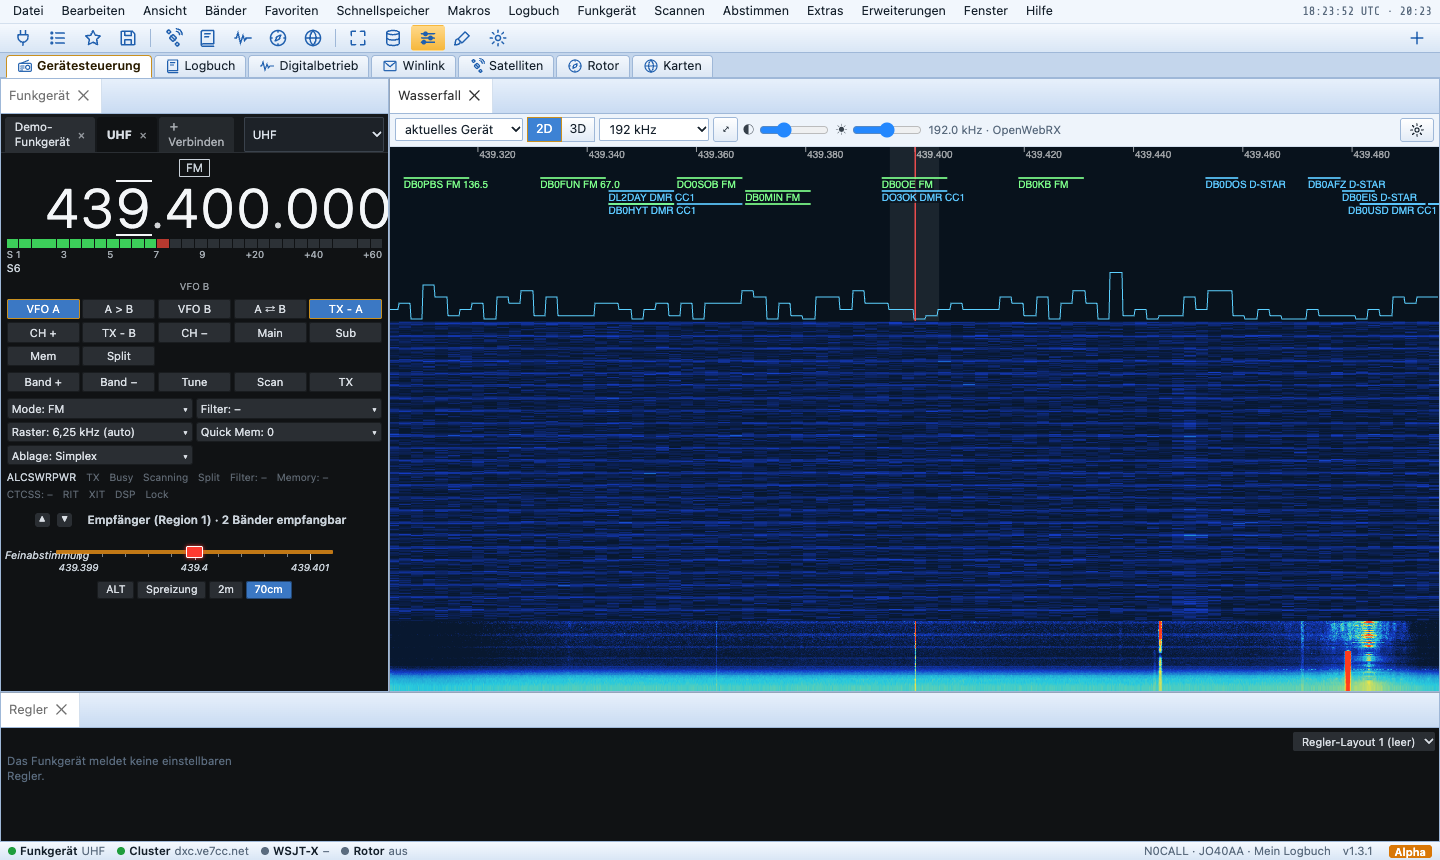
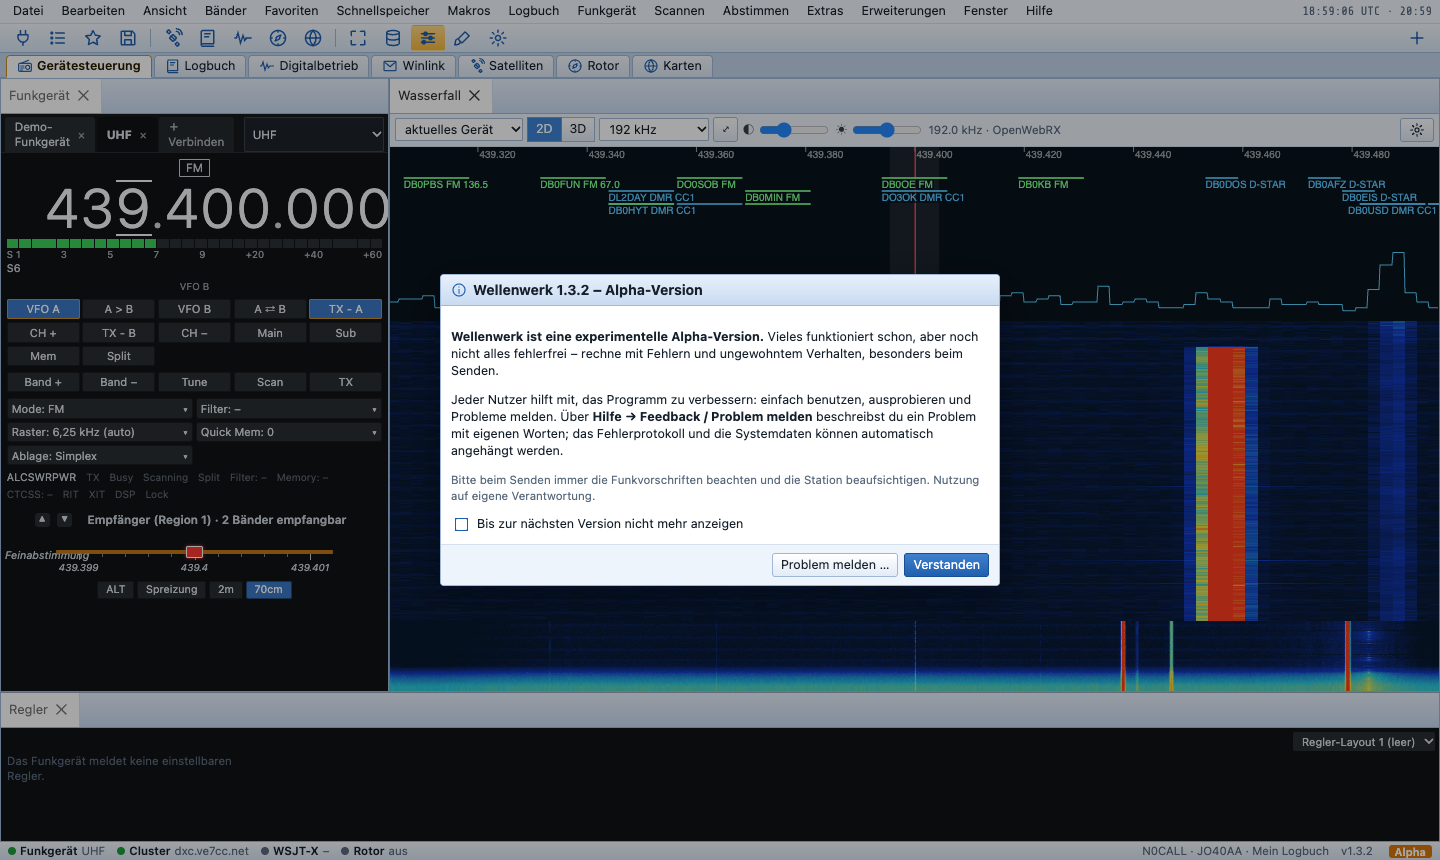
Relais: EchoLink als weitere Quelle, uebliche Ablage ergaenzen
- freqdb.echolink: Umkreissuche auf echolink.org/links.jsp (Relais/Links mit Frequenz, CTCSS,
  Standort, Status), je Gebiet eine Anfrage pro Tag; genauere Frequenz aus der Beschreibung
- Ablage nach Bandplan, wenn nur die Ausgabe bekannt ist (2 m -600 kHz, 70 cm -7,6 MHz ab 438,0)
- Karte zeigt EchoLink-Status; Anleitung DE/EN, LIZENZEN.md

Claude-Session: https://claude.ai/code/session_017n9uLddWcii3wRCcwvWadf

diff --git a/static/js/shell.js b/static/js/shell.js
@@ -324,7 +324,7 @@ function openOptions(tab = "station") {
       <label>Erkennung: höchstens (Sekunden)<input type="number" min="6" max="30" name="wf_sigsecs" data-local data-wf value="${w.sigsecs}"></label><span></span>
       <label class="chkrow wide"><input type="checkbox" name="wf_mtyp" data-local data-wf ${w.mtyp !== false ? "checked" : ""}> Typische Frequenzen markieren (FT8, WSPR, PSK, SSTV, Anruffrequenzen, Baken, Wetter- und Zeitsender, CB, PMR446 …)</label>
       <label class="chkrow wide"><input type="checkbox" name="wf_mbc" data-local data-wf ${w.mbc !== false ? "checked" : ""}> Rundfunksender markieren, die gerade senden (Sendeplan EiBi, eibispace.de)</label>
-      <label class="chkrow wide"><input type="checkbox" name="wf_mrep" data-local data-wf ${w.mrep !== false ? "checked" : ""}> Relais in der Nähe markieren (DARC-Relaisliste DL3EL, BrandMeister, hearham.com) – Klick stellt Betriebsart, Dekoder bzw. Ablage und CTCSS ein</label>
+      <label class="chkrow wide"><input type="checkbox" name="wf_mrep" data-local data-wf ${w.mrep !== false ? "checked" : ""}> Relais in der Nähe markieren (DARC-Relaisliste DL3EL, EchoLink, BrandMeister, hearham.com) – Klick stellt Betriebsart, Dekoder bzw. Ablage und CTCSS ein</label>
       <label>Relais im Umkreis von (km)<input type="number" min="10" max="300" name="wf_mrad" data-local data-wf value="${w.mrad || 100}"></label><span class="hint">Mittelpunkt: Standort des Empfängers (OpenWebRX meldet ihn), sonst der eigene Locator.</span>
       <p class="hint wide">Wasserfall-Fenster: Mausrad = zoomen, Ziehen = verschieben, Klick = abstimmen. In USB/LSB legt ein Klick das Signal auf 1500 Hz im Ton und erkennt die Betriebsart; Alt+Klick stimmt nur ab. 3D: Ziehen dreht, Mausrad ändert den Abstand. Breite, Kontrast (◐) und Helligkeit (☀) stehen in der Leiste des Fensters; Doppelklick auf einen Regler setzt ihn zurück.
         Panadapter: Ist ein Funkgerät ohne eigenes Scope und zusätzlich ein SDR (z. B. RTL-SDR) verbunden, zeigt der Wasserfall das Spektrum des SDR, das SDR folgt der Frequenz des Funkgeräts und ein Klick stimmt das Funkgerät ab.</p>`; })()}</div></div>

diff --git a/static/js/freqmarks.js b/static/js/freqmarks.js
@@ -106,5 +106,6 @@ function fmkRepFacts(r) {
   const off = r.rx - r.f;
   return [`${fmtMHz(r.f)} MHz`, off ? `Ablage ${off > 0 ? "+" : "−"}${(Math.abs(off) / 1e6).toLocaleString(I18N.locale, { maximumFractionDigits: 4 })} MHz` : "Simplex",
     r.m === "DMR" && r.cc != null ? `Colorcode ${r.cc}` : "", r.tone && !FMK_DV[r.m] ? `CTCSS ${String(r.tone).replace(".", ",")} Hz` : "", r.city || "", `${String(r.km).replace(".", ",")} km`,
-    r.seen ? `zuletzt aktiv ${r.seen}` : "", `Quelle: ${{ brandmeister: "BrandMeister", dl3el: "DARC-Relaisliste (DL3EL)" }[r.s] || "hearham.com"}`].filter(Boolean);
+    r.seen ? `zuletzt aktiv ${r.seen}` : "", r.online === true ? "EchoLink online" : r.online === false ? "EchoLink offline" : "",
+    `Quelle: ${{ brandmeister: "BrandMeister", dl3el: "DARC-Relaisliste (DL3EL)", echolink: "EchoLink" }[r.s] || "hearham.com"}`].filter(Boolean);
 }

diff --git a/wellenwerk/freqdb.py b/wellenwerk/freqdb.py
@@ -1,7 +1,8 @@
 """Frequenz-Datenbanken fuer Wasserfall und Signalerkennung, im Datenordner zwischengespeichert:
 
 - Relais: hearham.com (weltweit, alle Betriebsarten, offene Daten), BrandMeister (DMR-Relais mit Colorcode
-  und letztem Kontakt) und die DARC-Relaisliste von DL3EL (relais.dl3el.de, Umkreissuche, FM-Relais mit CTCSS). Optional repeatermap.de (DK3ML) mit eigenem API-Token (beim Betreiber anfragen).
+  und letztem Kontakt) die DARC-Relaisliste von DL3EL (relais.dl3el.de, Umkreissuche, FM-Relais mit CTCSS) und EchoLink
+  (Relais und Links mit Frequenz, CTCSS und aktuellem Status, weltweit). Optional repeatermap.de (DK3ML) mit eigenem API-Token (beim Betreiber anfragen).
 - Rundfunk: EiBi-Sendeplan (eibispace.de, Saison A/B), gefiltert auf die aktuelle Sendezeit.
 - Typische Frequenzen der Betriebsarten: static/freqs.json im Programm, taeglich aus dem Projekt auf GitHub aktualisiert.
 Alle Abrufe mit eigener Kennung, hoechstens einmal pro Woche (Relais, Rundfunk) bzw. Tag (typische Frequenzen)."""
@@ -26,6 +27,7 @@ SRC = {
     "brandmeister": "https://api.brandmeister.network/v2/device",
     "freqs": "https://raw.githubusercontent.com/djamplifier/wellenwerk/main/static/freqs.json",
     "eibi": "http://www.eibispace.de/dx/sked-{season}.csv",
+    "echolink": "https://www.echolink.org/links.jsp?sel=gridsq&gs={grid}&d=150",
     "dl3el": "http://relais.dl3el.de/cgi-bin/relais.pl?sel=gridsq&gs={grid}&maxgateways=200&printas=csv&type_el=1&type_il=1&type_ds=1&type_ws=1&type_dm=1&type_fr=1&type_dl3el=1&kmmls=km",
 }
 _lock = threading.Lock()
@@ -157,6 +159,63 @@ def dl3el(data: Path, lat: float, lon: float) -> list[dict]:
     return out
 
 
+# EchoLink: Relais (-R) und Links (-L) mit Frequenz, CTCSS, Standort und aktuellem Status; weltweit. Je Gebiet eine Anfrage pro Tag.
+def _std_offset(f: int) -> int:
+    """Uebliche Relaisablage, wenn die Quelle nur die Ausgabefrequenz nennt (Region 1; 2 m US: −600 kHz bzw. +600 kHz)."""
+    if 145_550_000 <= f <= 145_800_000 or 146_000_000 <= f <= 148_000_000:
+        return -600_000
+    if 438_000_000 <= f <= 439_600_000:                 # Region 1 (Deutschland: Ausgaben 438,0125 … 439,5875)
+        return -7_600_000
+    if 29_620_000 <= f <= 29_690_000:
+        return -100_000
+    if 1_298_000_000 <= f <= 1_299_000_000:
+        return -28_000_000
+    return 0
+
+
+def echolink(data: Path, lat: float, lon: float) -> list[dict]:
+    import re
+    from .geo import latlon_to_grid
+    cell = (round(lat * 4) / 4, round(lon * 4) / 4)
+    path = data / "relais-echolink" / f"{cell[0]:.2f}_{cell[1]:.2f}.json"
+    if path.exists() and time.time() - path.stat().st_mtime < DAY:
+        return json.loads(path.read_text(encoding="utf-8"))
+    out = []
+    try:
+        html = _fetch(SRC["echolink"].format(grid=latlon_to_grid(*cell)), 60).decode("utf-8", "replace")
+        txt = lambda c: _unent(re.sub(r"\s+", " ", re.sub(r"<[^>]+>", " ", c))).strip()
+        for row in re.findall(r'(?s)<tr class="(?:online|offline|busy)">(.*?)(?=<tr|</table)', html):
+            cells = re.findall(r"(?s)<td[^>]*>(.*?)(?=<td|$)", row)
+            g = re.search(r"clat=([-\d.]+)&clon=([-\d.]+)", row)
+            if len(cells) < 13 or not g:
+                continue
+            try:
+                call, desc, fq, tone, st = txt(cells[0]).upper(), txt(cells[1]), txt(cells[7]), txt(cells[8]), txt(cells[12])
+                f = int(round(float(fq) * 1e6))
+                if not f:
+                    continue
+                exact = re.search(r"(\d{2,4}[.,]\d{3,5})", desc)                   # genauere Angabe in der Beschreibung (438.5875)
+                if exact and abs(float(exact.group(1).replace(",", ".")) * 1e6 - f) < 1500:
+                    f = int(round(float(exact.group(1).replace(",", ".")) * 1e6))
+                elif abs(f - round(f / 6250) * 6250) <= 700:
+                    f = int(round(f / 6250) * 6250)
+                e = dict(c=call, f=f, rx=f + (_std_offset(f) if call.endswith("-R") else 0), m="FM", lat=round(float(g.group(1)), 4), lon=round(float(g.group(2)), 4),
+                         city=desc[:60], s="echolink", online=st.lower().startswith(("on", "busy")))
+                if tone and tone.replace(".", "").isdigit():
+                    e["tone"] = tone
+                out.append(e)
+            except (ValueError, IndexError):
+                continue
+    except Exception as e:
+        log.warning("EchoLink-Liste nicht abrufbar: %s", e)
+    if out:
+        path.parent.mkdir(exist_ok=True)
+        path.write_text(json.dumps(out, ensure_ascii=False), encoding="utf-8")
+    elif path.exists():
+        return json.loads(path.read_text(encoding="utf-8"))
+    return out
+
+
 def repeaters_ready(data: Path) -> bool:
     """Relaisliste geladen? Sonst Laden im Hintergrund anstossen (erster Abruf dauert bis zu einer Minute)."""
     if "rep" in _cache:
@@ -180,7 +239,7 @@ def repeaters(data: Path, lat: float, lon: float, radius_km: float = 80, lo: flo
     if not repeaters_ready(data):
         return []
     cand = []
-    extra = dl3el(data, lat, lon) if -60 < lat < 75 else []
+    extra = (dl3el(data, lat, lon) + echolink(data, lat, lon)) if -60 < lat < 75 else []
     for r in extra + _cache["rep"]:
         if hi and not (lo <= r["f"] <= hi):
             continue
@@ -193,7 +252,7 @@ def repeaters(data: Path, lat: float, lon: float, radius_km: float = 80, lo: flo
                 x["cc"], x["tone"] = int(x["tone"][2:] or 0), ""
             cand.append(x)
     # Vorrang bei Doppelten: DMR aus BrandMeister (Colorcode, letzter Kontakt), sonst die DARC-Liste (CTCSS), dann hearham
-    rank = lambda r: (0 if r["s"] == "brandmeister" and r["m"] == "DMR" else 1 if r["s"] == "dl3el" else 2)
+    rank = lambda r: (0 if r["s"] == "brandmeister" and r["m"] == "DMR" else 1 if r["s"] == "dl3el" else 2 if r["s"] == "echolink" else 3)
     cand.sort(key=lambda r: (rank(r), not r.get("tone"), "-" in r["c"], r["km"]))
     seen, res = set(), []
     for r in cand:

diff --git a/docs/Anleitung.md b/docs/Anleitung.md
@@ -202,7 +202,7 @@ Von Hand lässt sich jeder Schritt von 10 Hz bis 100 kHz festlegen. Ein **Klick 
 Unter der Frequenzskala zeigt der Wasserfall, was wo zu erwarten ist – ein Klick auf eine Markierung stellt Frequenz **und** Betriebsart ein, das Überfahren mit der Maus zeigt Einzelheiten:
 - **Typische Frequenzen** (türkis): FT8, FT4, WSPR, JS8, PSK31, RTTY, SSTV, FreeDV, QRP- und Notfunk-Aktivitätszentren, Anruffrequenzen, APRS, ISS, NCDXF-Baken, QO-100-Baken; dazu Wetter- und Zeitsender (DWD-RTTY und -Fax, NAVTEX, VOLMET, DCF77, WWV), CB-, PMR446- und Freenet-Kanäle, Seefunk 16/70, AIS, Flugnotfunk. Die Liste gehört zum Programm und wird täglich aus dem Projekt auf GitHub aktualisiert – Ergänzungen kommen also ohne neue Version an.
 - **Rundfunk** (gelb): Sender, die **jetzt** auf dieser Frequenz senden, aus dem Sendeplan EiBi (eibispace.de) mit Sprache und Zielgebiet.
-- **Relais** (grün = FM, blau = digital): Relais im Umkreis (Standard 100 km) mit Rufzeichen, Betriebsart, CTCSS bzw. DMR-Colorcode. Mittelpunkt ist der **Standort des Empfängers** (OpenWebRX meldet ihn) – bei eigenen Geräten (RTL-SDR, Funkgerät) die eigene Station (Locator). Quellen: DARC-Relaisliste von DL3EL (relais.dl3el.de), BrandMeister (DMR, mit letztem Kontakt) und hearham.com.
+- **Relais** (grün = FM, blau = digital): Relais im Umkreis (Standard 100 km) mit Rufzeichen, Betriebsart, CTCSS bzw. DMR-Colorcode. Mittelpunkt ist der **Standort des Empfängers** (OpenWebRX meldet ihn) – bei eigenen Geräten (RTL-SDR, Funkgerät) die eigene Station (Locator). Quellen: DARC-Relaisliste von DL3EL (relais.dl3el.de – sie führt auch EchoLink, IRLP, D-STAR, Wires-X, DMR und FM-Funknetz zusammen), EchoLink direkt (weltweit, mit aktuellem Status), BrandMeister (DMR, mit letztem Kontakt) und hearham.com. Nennt eine Quelle nur die Ausgabefrequenz, ergänzt Wellenwerk die übliche Ablage (2 m −600 kHz, 70 cm −7,6 MHz).
 
 ![Relais auf 70 cm um den Empfänger](bilder/27-relais.png)
 

diff --git a/docs/Manual.md b/docs/Manual.md
@@ -208,7 +208,7 @@ Any step from 10 Hz to 100 kHz can also be set by hand. A **click in the waterfa
 Below the frequency scale the waterfall shows what to expect where – a click on a marker sets frequency **and** mode, hovering shows details:
 - **Typical frequencies** (turquoise): FT8, FT4, WSPR, JS8, PSK31, RTTY, SSTV, FreeDV, QRP and emergency centres of activity, calling frequencies, APRS, ISS, NCDXF beacons, QO-100 beacons; plus weather and time stations (DWD RTTY and fax, NAVTEX, VOLMET, DCF77, WWV), CB, PMR446 and Freenet channels, marine 16/70, AIS, air emergency. The list is part of the program and is updated daily from the project on GitHub – additions arrive without a new version.
 - **Broadcast** (yellow): stations transmitting on this frequency **now**, from the EiBi schedule (eibispace.de) with language and target area.
-- **Repeaters** (green = FM, blue = digital): repeaters within a radius (default 100 km) with callsign, mode, CTCSS or DMR colour code. The centre is the **receiver's location** (OpenWebRX reports it) – with your own devices (RTL-SDR, radio) your station (locator). Sources: DARC repeater list by DL3EL (relais.dl3el.de), BrandMeister (DMR, with last contact) and hearham.com.
+- **Repeaters** (green = FM, blue = digital): repeaters within a radius (default 100 km) with callsign, mode, CTCSS or DMR colour code. The centre is the **receiver's location** (OpenWebRX reports it) – with your own devices (RTL-SDR, radio) your station (locator). Sources: DARC repeater list by DL3EL (relais.dl3el.de – it also combines EchoLink, IRLP, D-STAR, Wires-X, DMR and FM-Funknetz), EchoLink directly (worldwide, with current status), BrandMeister (DMR, with last contact) and hearham.com. If a source only gives the output frequency, Wellenwerk adds the usual offset (2 m −600 kHz, 70 cm −7.6 MHz).
 
 ![Repeaters on 70 cm around the receiver](bilder/27-relais.png)
 

diff --git a/LIZENZEN.md b/LIZENZEN.md
@@ -54,7 +54,7 @@ sowie die vom Nutzer eingerichteten Dienste (HamQTH, QRZ.com, eQSL, LoTW, Club L
 ## Frequenz- und Relaisdaten (zur Laufzeit abgerufen, nicht im Programm enthalten)
 
 - Rundfunk-Sendeplan: EiBi (eibispace.de, Eike Bierwirth) – frei verwendbare Sendeliste, mit Quellenangabe.
-- Relais: DARC-Relaisliste von DL3EL (relais.dl3el.de, Umkreissuche als CSV), BrandMeister-Geräteliste (api.brandmeister.network, DMR-Relais), hearham.com (offene Relais-Datenbank).
+- Relais: DARC-Relaisliste von DL3EL (relais.dl3el.de, Umkreissuche als CSV), EchoLink-Linkliste (echolink.org/links.jsp, Umkreissuche), BrandMeister-Geräteliste (api.brandmeister.network, DMR-Relais), hearham.com (offene Relais-Datenbank).
 - Typische Frequenzen (static/freqs.json): zusammengestellt aus dem IARU-Region-1-Bandplan (Aktivitätszentren), den Standardfrequenzen von WSJT-X sowie öffentlich bekannten Wetter-, Zeit-, CB-, PMR446- und Freenet-Frequenzen.
 
 ## Signal-Datenbank (static/sigdb.json)
